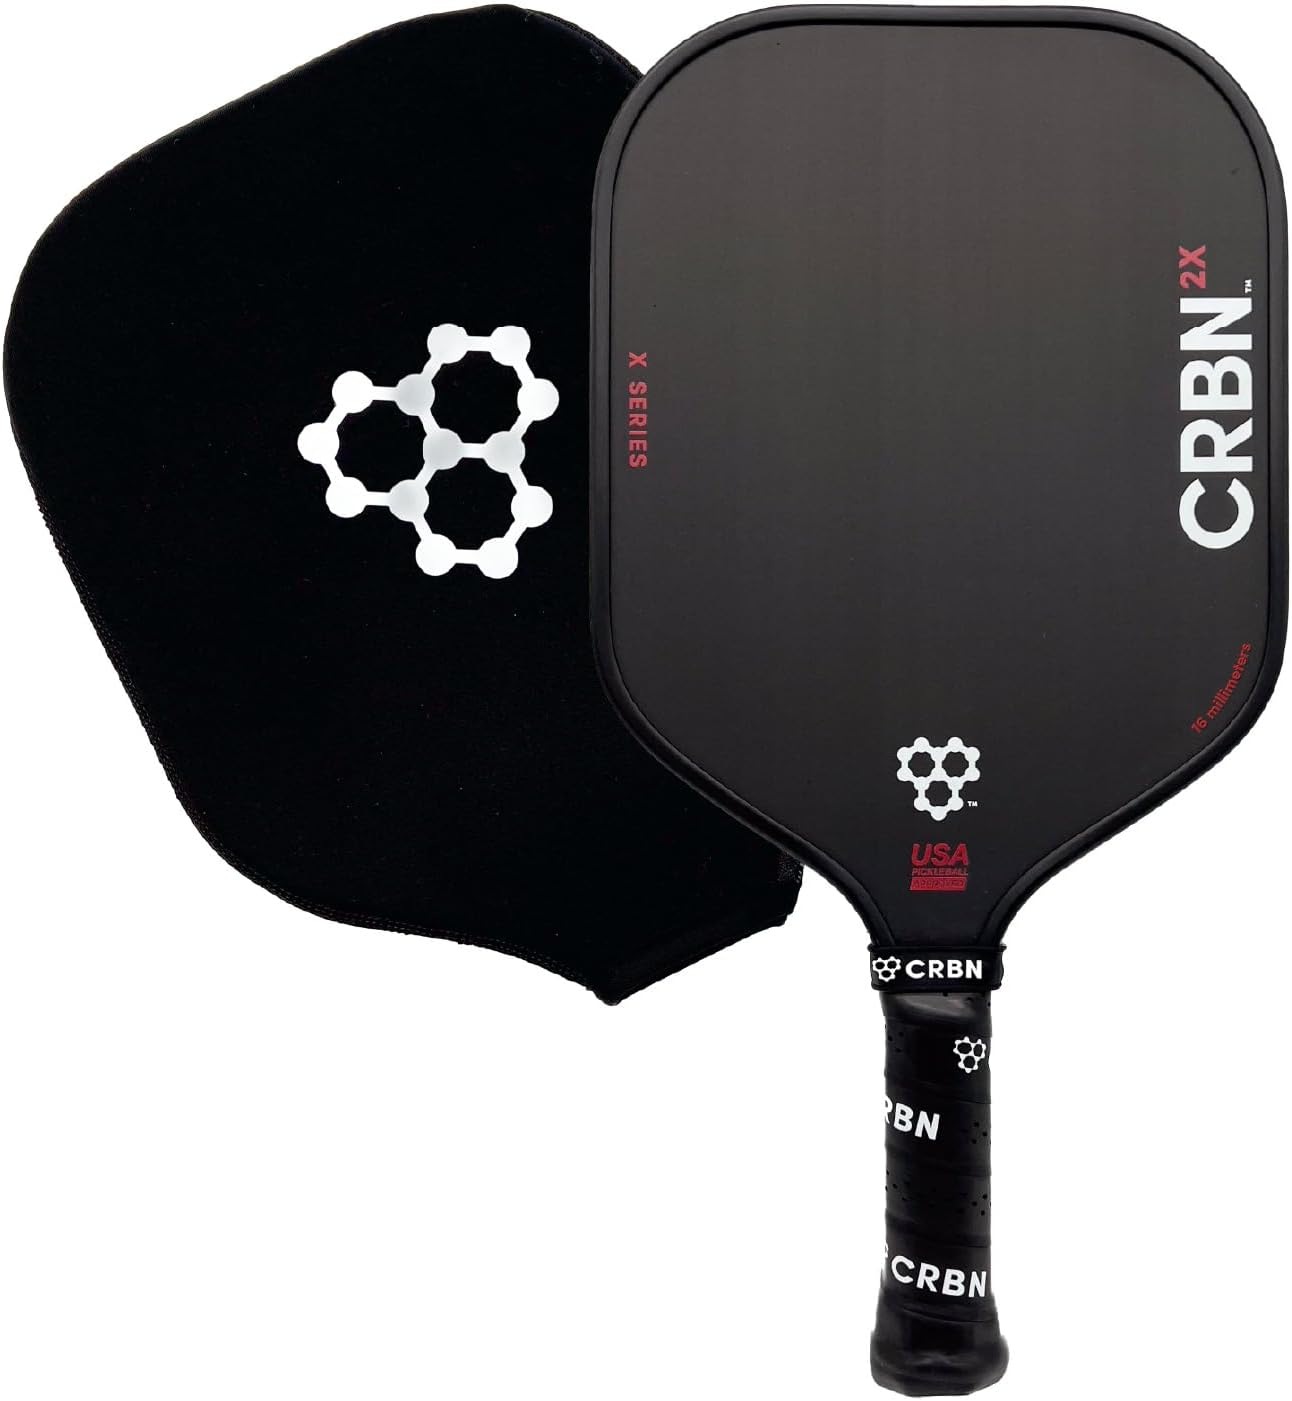
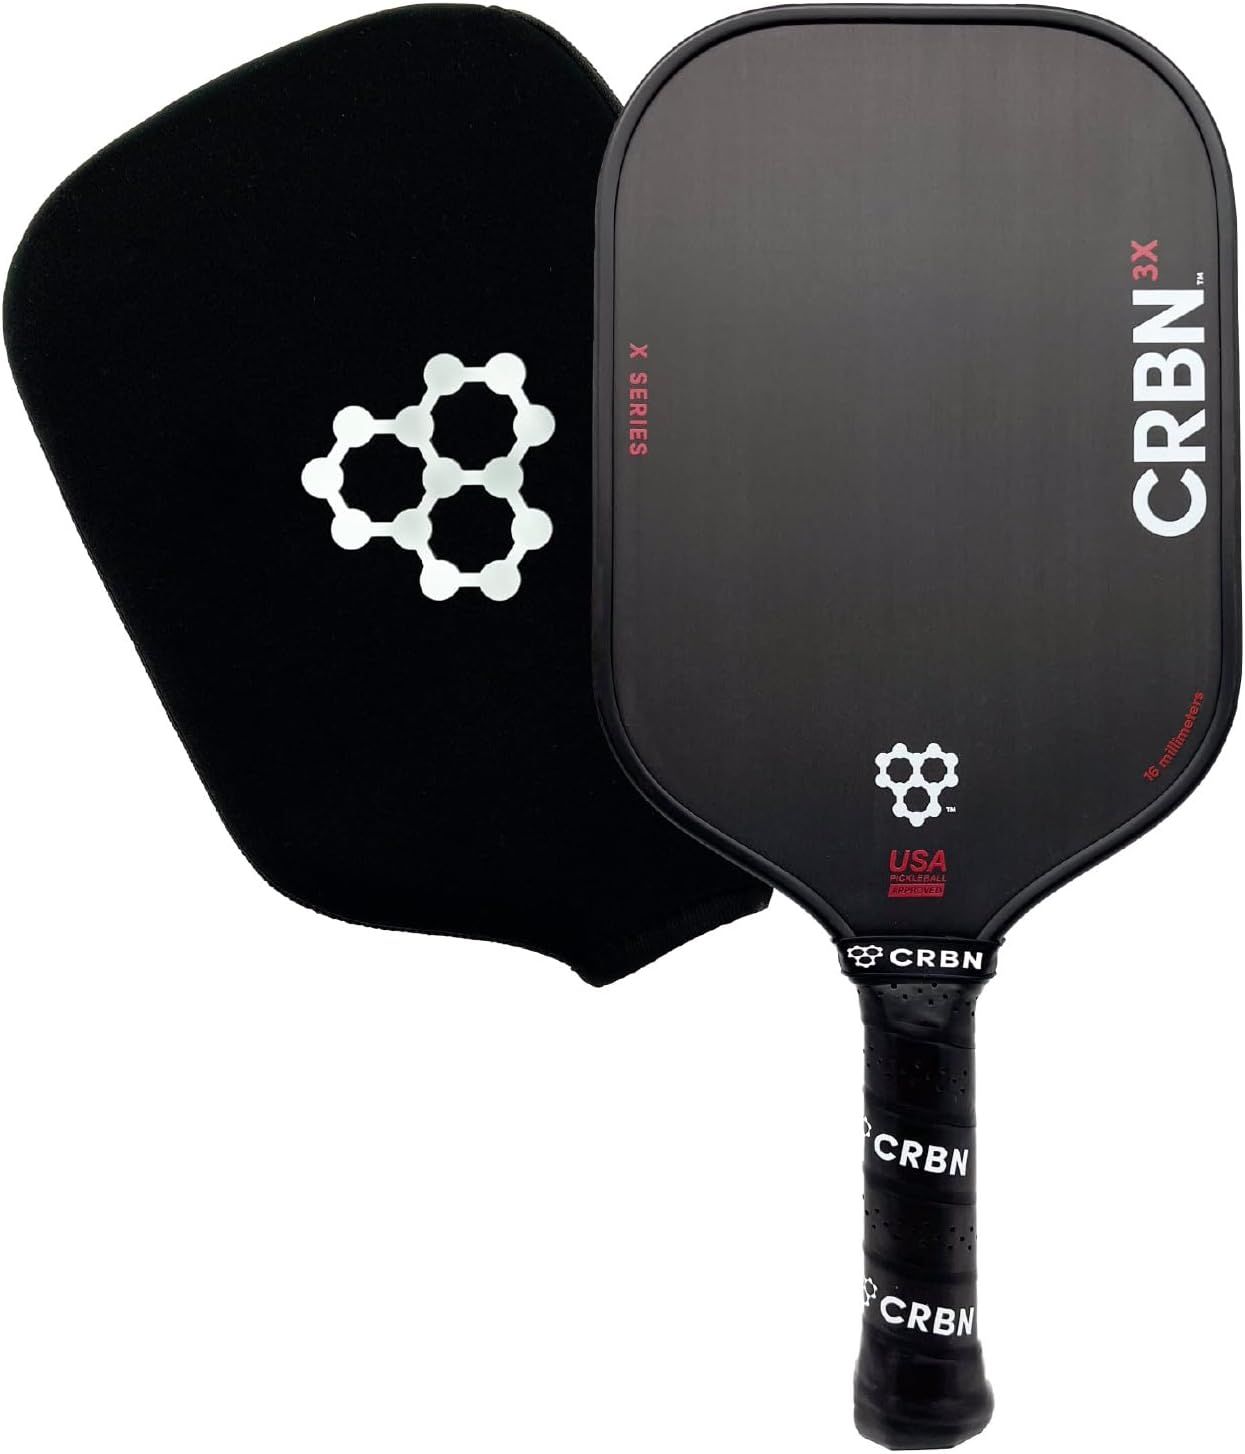
Add shape selector to product cards and fix CRBN X Series images
- Move shape buttons below size, always show even with 1 shape
- Add padding above size buttons
- Replace CRBN X Series Square and Elongated images with correct ones

Changed region(s): [[0.0, 0.0, 1.0, 1.0], [0.4884, 0.4911, 0.5189, 0.5525], [0.4273, 0.0, 0.4578, 0.0307]]

diff --git a/src/pages/shop.tsx b/src/pages/shop.tsx
@@ -75,19 +75,36 @@ const ProductCard = ({ group }: { group: ProductGroup }) => {
   const [selectedSize, setSelectedSize] = React.useState(
     defaultVariant.size
   );
+  const [selectedShape, setSelectedShape] = React.useState(
+    (defaultVariant as any).shape || ""
+  );
 
   const activeVariant =
     group.variants.find(
       (v) =>
         v.colorway === selectedColorway &&
-        (group.sizes.length <= 1 || v.size === selectedSize)
+        (group.sizes.length <= 1 || v.size === selectedSize) &&
+        (group.shapes.length <= 1 || (v as any).shape === selectedShape)
+    ) ||
+    group.variants.find(
+      (v) =>
+        v.colorway === selectedColorway &&
+        (group.shapes.length <= 1 || (v as any).shape === selectedShape)
     ) ||
     group.variants.find((v) => v.colorway === selectedColorway) ||
     defaultVariant;
 
-  const sizesForColorway = Array.from(
+  const relevantVariants = group.variants.filter(
+    (v) => group.shapes.length <= 1 || (v as any).shape === selectedShape
+  );
+
+  const colorwaysForShape = Array.from(
+    new Set(relevantVariants.map((v) => v.colorway))
+  );
+
+  const sizesForSelection = Array.from(
     new Set(
-      group.variants
+      relevantVariants
         .filter((v) => v.colorway === selectedColorway)
         .map((v) => v.size)
         .filter(Boolean)
@@ -148,10 +165,10 @@ const ProductCard = ({ group }: { group: ProductGroup }) => {
         <div className="meta" style={{ marginTop: "0.25rem" }}>
           {activeVariant.colorway}
         </div>
-        {group.colorways.length > 0 && group.category === "paddle" && (
+        {colorwaysForShape.length > 0 && group.category === "paddle" && (
           <div style={{ marginTop: "0.5rem", display: "flex", flexWrap: "wrap", gap: "0.35rem" }}>
-            {group.colorways.map((cw) => {
-              const variant = group.variants.find((v) => v.colorway === cw);
+            {colorwaysForShape.map((cw) => {
+              const variant = relevantVariants.find((v) => v.colorway === cw);
               const hex = COLOR_HEX[variant?.color || ""] || "#ccc";
               const isSelected = cw === selectedColorway;
               return (
@@ -160,7 +177,7 @@ const ProductCard = ({ group }: { group: ProductGroup }) => {
                   title={cw}
                   onClick={() => {
                     setSelectedColorway(cw);
-                    const firstWithColorway = group.variants.find(
+                    const firstWithColorway = relevantVariants.find(
                       (v) => v.colorway === cw
                     );
                     if (firstWithColorway) setSelectedSize(firstWithColorway.size);
@@ -181,9 +198,9 @@ const ProductCard = ({ group }: { group: ProductGroup }) => {
             })}
           </div>
         )}
-        {sizesForColorway.length > 0 && (
-          <div style={{ marginTop: "0.5rem" }}>
-            {sizesForColorway.map((sz) => (
+        {sizesForSelection.length > 0 && (
+          <div style={{ marginTop: "1rem" }}>
+            {sizesForSelection.map((sz) => (
               <button
                 key={sz}
                 className={classnames("ui mini basic button", {
@@ -196,6 +213,34 @@ const ProductCard = ({ group }: { group: ProductGroup }) => {
                 onClick={() => setSelectedSize(sz)}
               >
                 {sz}
+              </button>
+            ))}
+          </div>
+        )}
+        {group.shapes.length > 0 && (
+          <div style={{ marginTop: "0.5rem" }}>
+            {group.shapes.map((sh) => (
+              <button
+                key={sh}
+                className={classnames("ui mini basic button", {
+                  active: sh === selectedShape,
+                })}
+                style={{
+                  marginBottom: "0.25rem",
+                  fontWeight: sh === selectedShape ? "bold" : "normal",
+                }}
+                onClick={() => {
+                  setSelectedShape(sh);
+                  const firstWithShape = group.variants.find(
+                    (v) => (v as any).shape === sh
+                  );
+                  if (firstWithShape) {
+                    setSelectedColorway(firstWithShape.colorway);
+                    setSelectedSize(firstWithShape.size);
+                  }
+                }}
+              >
+                {sh}
               </button>
             ))}
           </div>
